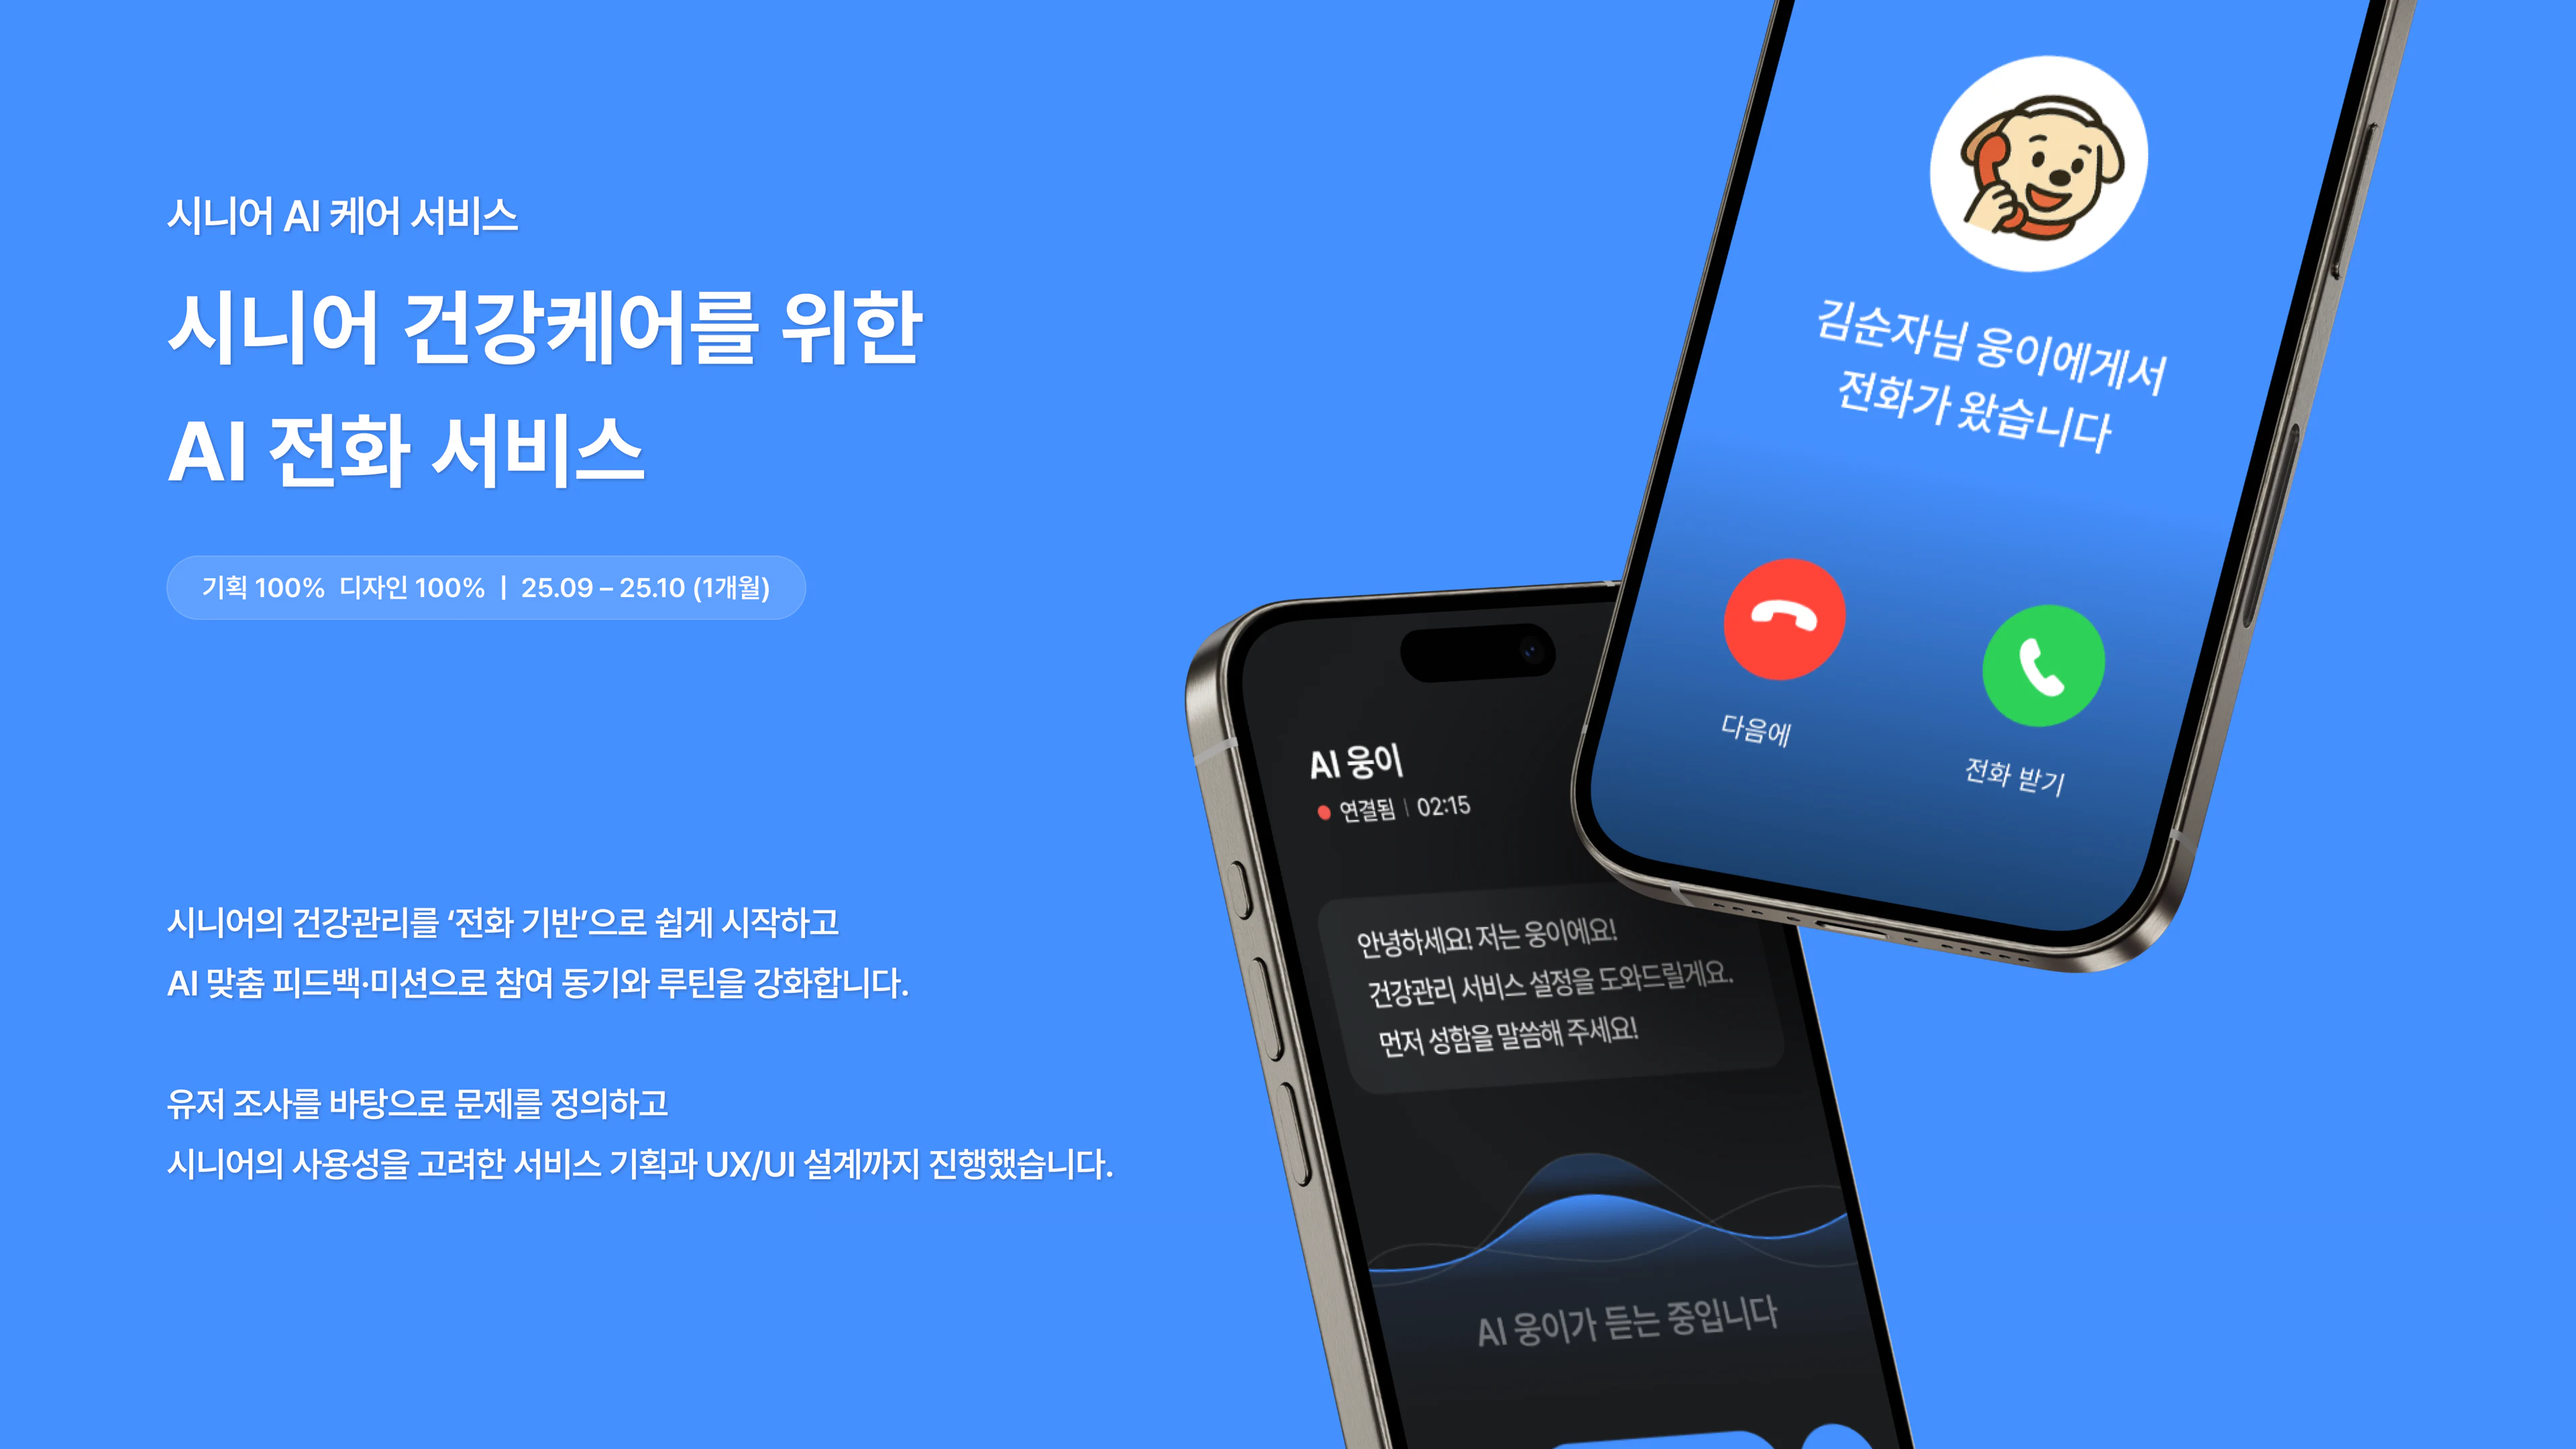
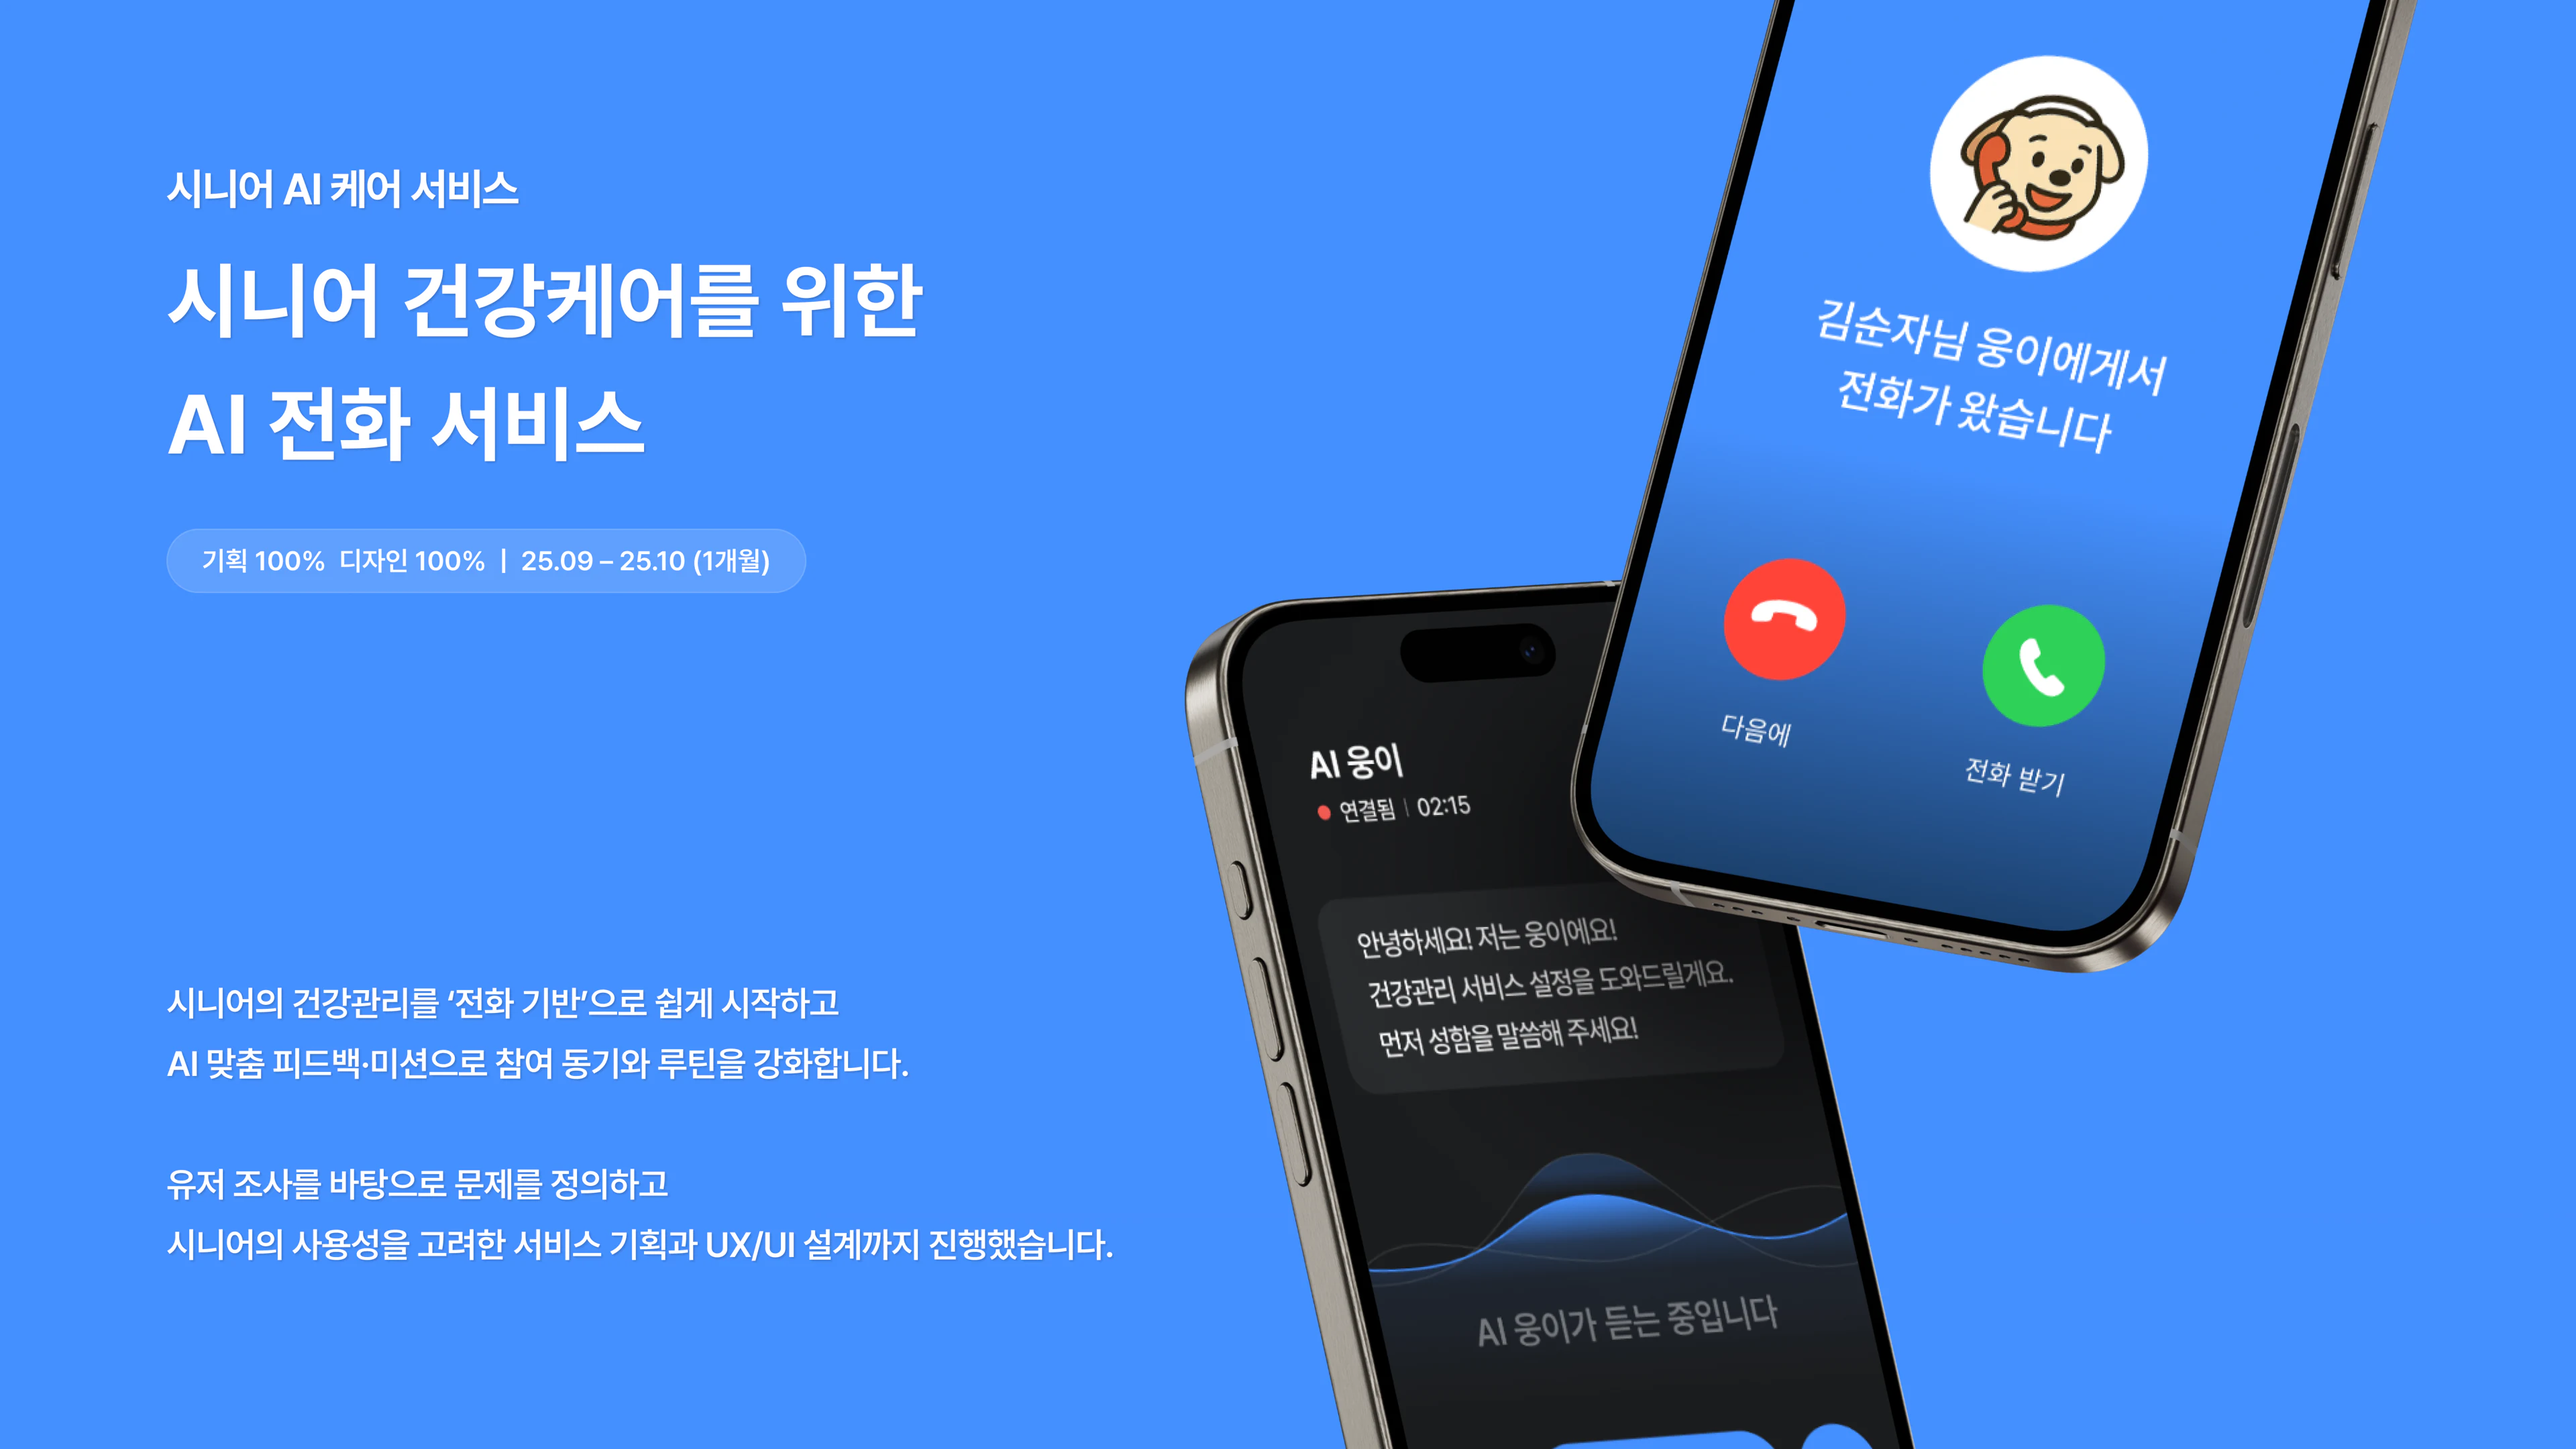
02·03 영역 1번 슬라이드를 신규 PNG 기준으로 재교체
- 새 7680x4320 PNG 를 3840px WebP(q88, sharp_yuv) 로 변환해 교체
- 변환 손실 0.000% (최대 채널차 02:8, 03:5)
- 01·04 영역과 나머지 슬라이드는 손대지 않음
- 동일 파일명이라 ?v= 쿼리를 20261007f 로 올려 캐시 무효화

Changed region(s): [[0.0625, 0.6204, 0.4375, 0.8685], [0.0625, 0.0931, 0.375, 0.4343]]

diff --git a/index.html b/index.html
@@ -26,7 +26,7 @@
 <link rel="preconnect" href="https://fonts.gstatic.com" crossorigin>
 <link href="https://fonts.googleapis.com/css2?family=Rethink+Sans:wght@500;600;700&family=Figtree:wght@400&family=Playfair+Display:wght@400;500&display=swap" rel="stylesheet">
 <link rel="stylesheet" href="https://cdn.jsdelivr.net/gh/orioncactus/pretendard@v1.3.9/dist/web/variable/pretendardvariable-dynamic-subset.min.css">
-<link rel="stylesheet" href="assets/css/styles.css?v=20261007e">
+<link rel="stylesheet" href="assets/css/styles.css?v=20261007f">
 </head>
 <body>
 
@@ -94,7 +94,7 @@
     <!-- ---------- HERO — Figma 원본 전체를 PNG 한 장으로 표시 ---------- -->
     <section class="hero full-bleed" id="home" aria-label="표지">
       <img class="hero__cover"
-           src="assets/img/main-cover.png?v=20261007e"
+           src="assets/img/main-cover.png?v=20261007f"
            alt="2026 Portfolio — Product Design"
            fetchpriority="high"
            decoding="async">
@@ -102,13 +102,13 @@
 
     <!-- ---------- RESUME / 이력서 ---------- -->
     <section class="resume full-bleed" id="profile">
-      <img src="assets/img/resume.png?v=20261007e" alt="신동주 이력서">
+      <img src="assets/img/resume.png?v=20261007f" alt="신동주 이력서">
     </section>
 
     <!-- ---------- INDEX — 완성 PNG 1장 + 투명 클릭 영역 ---------- -->
     <section class="index full-bleed" id="index" aria-label="프로젝트 목차">
       <div class="index__frame">
-        <img class="index__cover" src="assets/img/index.png?v=20261007e"
+        <img class="index__cover" src="assets/img/index.png?v=20261007f"
              alt="Index — 01 학원 ERP 서비스 고도화, 02 시니어 AI 케어 서비스 기획, 03 숏폼 OTT 서비스 런칭, 04 케이크 주문 서비스 구축"
              width="7680" height="4320" decoding="async">
         <a class="index__hit index__hit--01" href="#project-01" aria-label="학원 ERP 서비스 고도화 프로젝트로 이동"></a>
@@ -169,6 +169,6 @@
   </div>
 </div>
 
-<script src="assets/js/main.js?v=20261007e"></script>
+<script src="assets/js/main.js?v=20261007f"></script>
 </body>
 </html>

diff --git a/assets/js/main.js b/assets/js/main.js
@@ -70,7 +70,7 @@
      (CSS/JS 의 ?v= 와 같은 역할)
      경로 자체에는 붙이지 않는다 — 확장자 추출이나 존재 확인이 쿼리에
      오염되면 안 되므로, <img src> 에 실을 때만 versioned() 로 감싼다. */
-  var ASSET_VERSION = '20261007e';
+  var ASSET_VERSION = '20261007f';
   function slidePath(key, n, ext) { return 'assets/slides/' + key + '/' + pad(n) + '.' + ext; }
   function versioned(src) { return src + '?v=' + ASSET_VERSION; }
 
